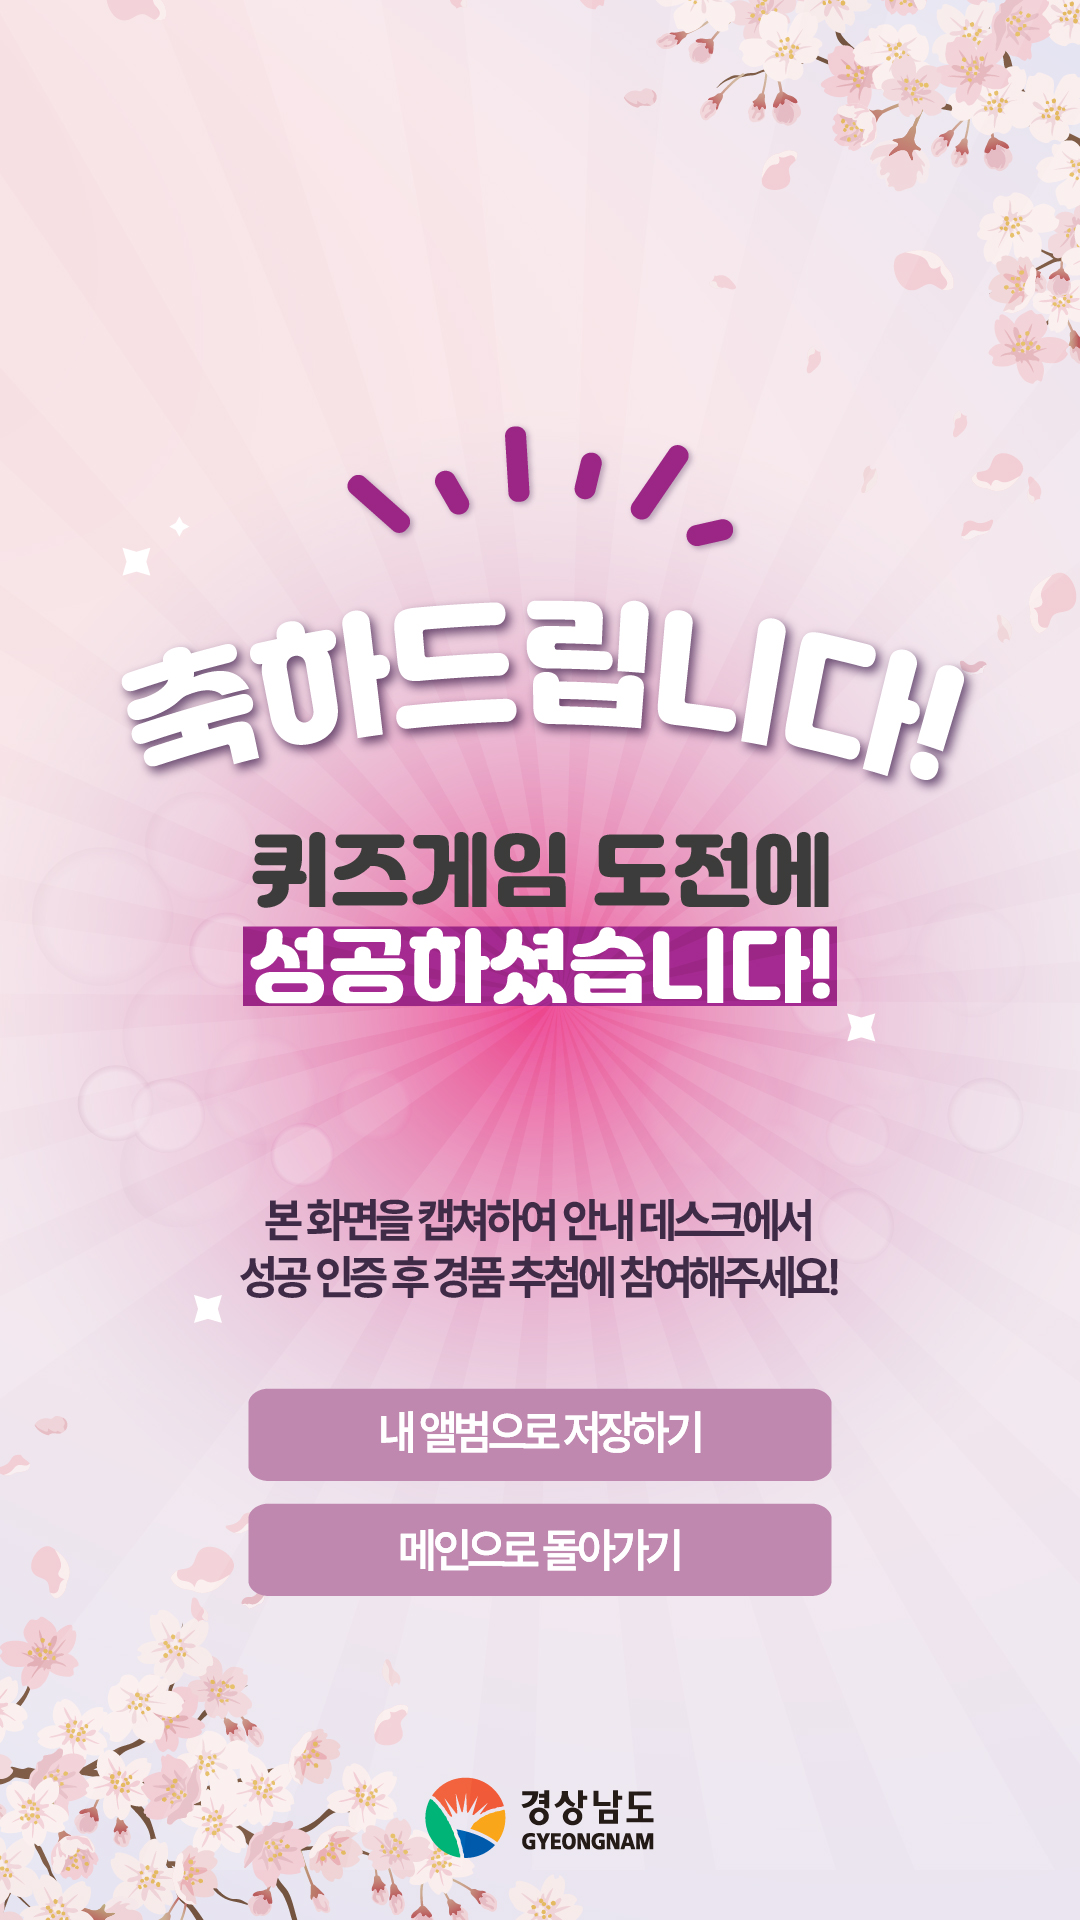
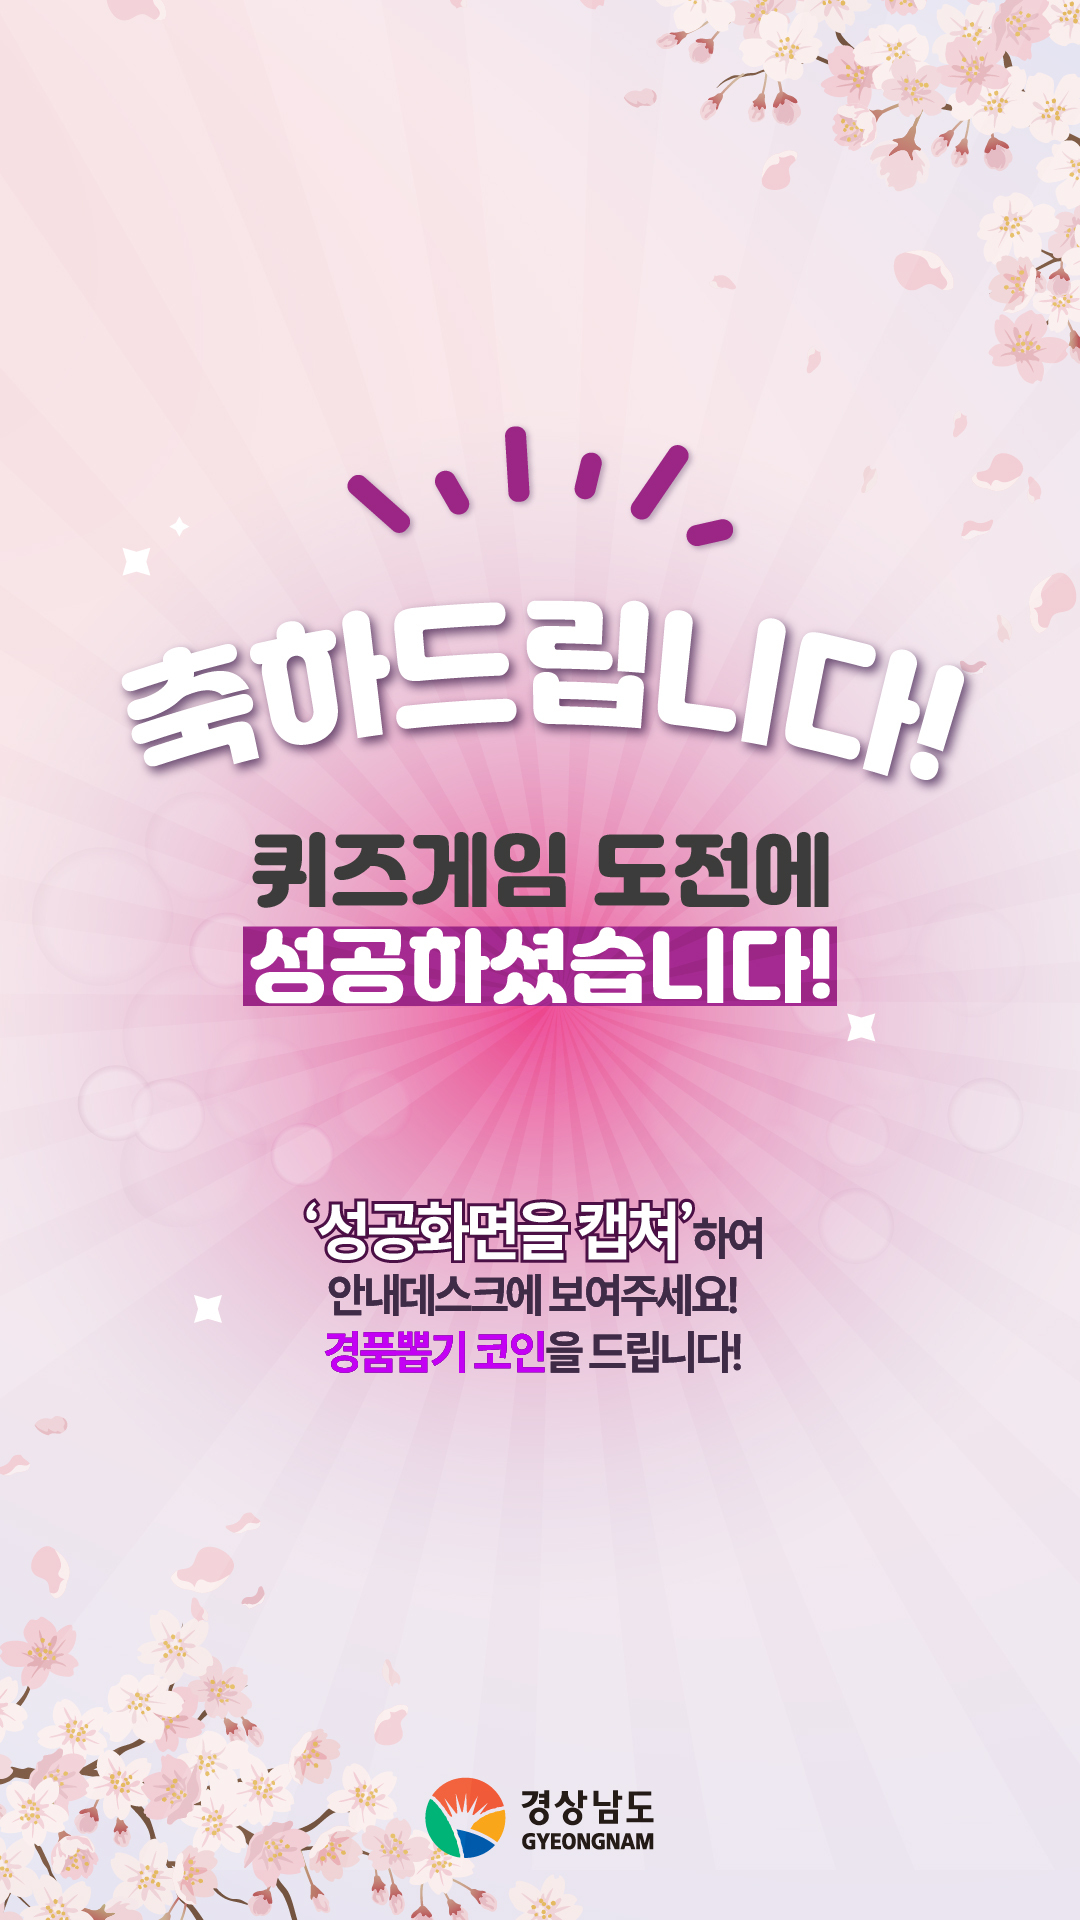
Update success jpg

Changed region(s): [[0.2139, 0.625, 0.7944, 0.8438]]

diff --git a/app/app/page.tsx b/app/app/page.tsx
@@ -195,6 +195,7 @@ export default function Page() {
     return (
       <Screen image="/assets/success.jpg" bg={SUCCESS_BG} hotspots={
         <>
+        {/*
           <button
             aria-label="내 앨범으로 저장"
             className="hotspot__btn"
@@ -202,13 +203,13 @@ export default function Page() {
             onClick={doSave}
             onKeyDown={withKeyboard(doSave)}
           />
-          <button
+           <button
             aria-label="메인으로 돌아가기"
             className="hotspot__btn"
             style={pct(HS.successHome)}
             onClick={tap(() => setMode('main'))}
             onKeyDown={withKeyboard(() => setMode('main'))}
-          />
+          /> */}
         </>
       } />
     )
